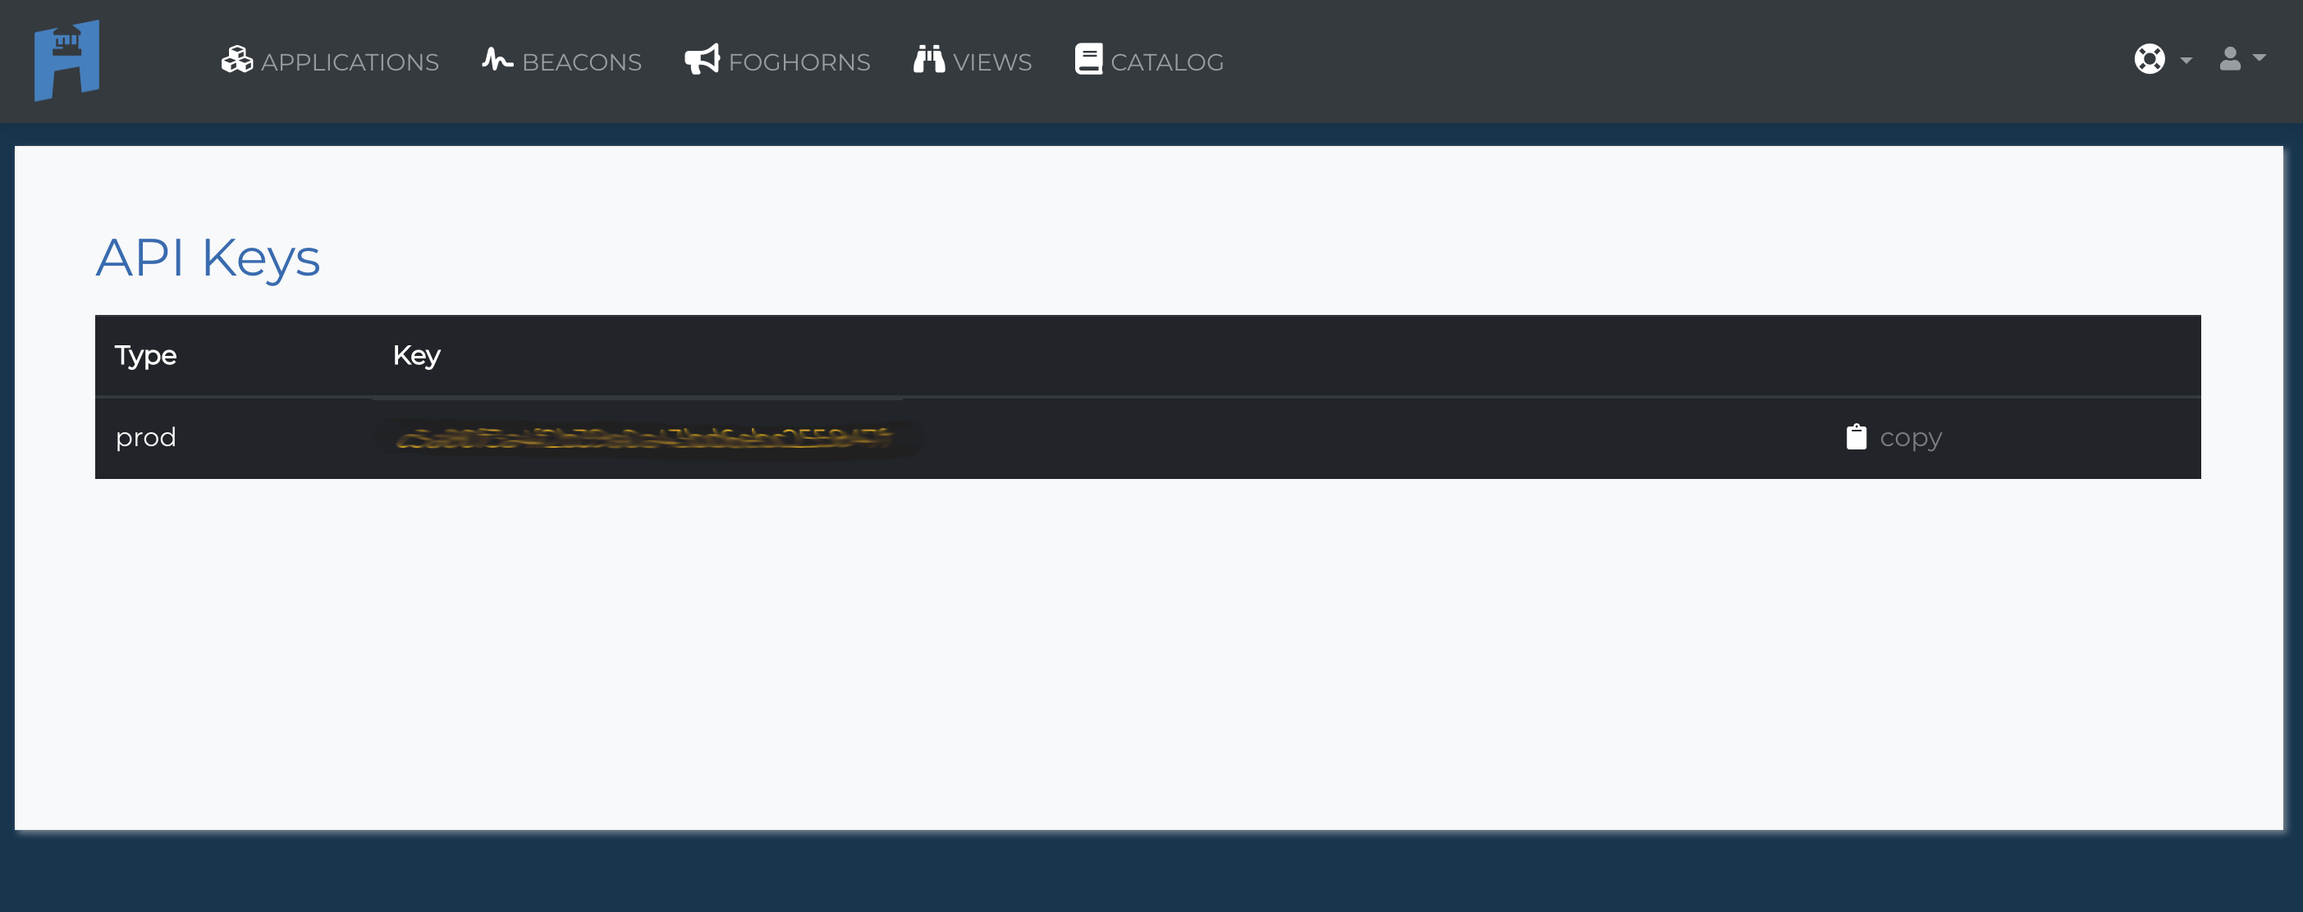
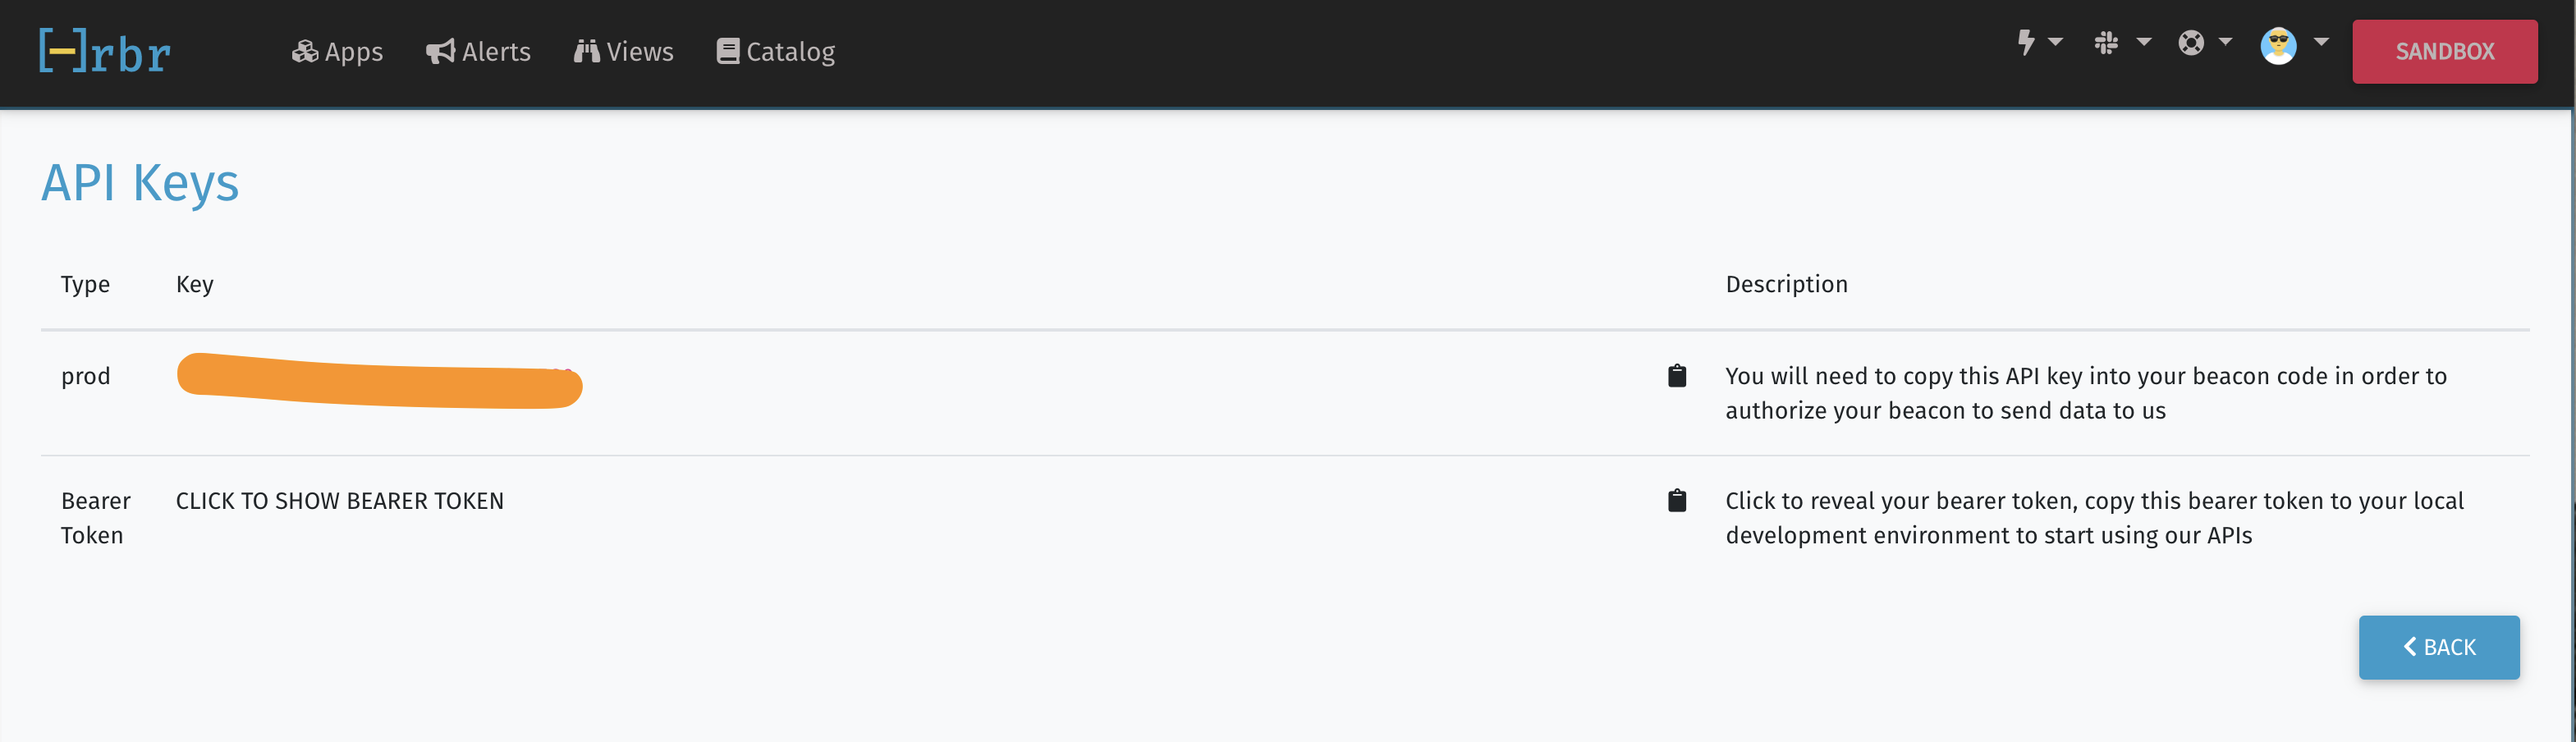
Changing docs to include sysinfo and to show new UI.

diff --git a/docs/quick-start-guide.md b/docs/quick-start-guide.md
@@ -40,72 +40,71 @@ Once you've added your application the first thing you have to do is add a Beaco
 !!! Reminder
     A Beacon collects data relevant to your application and sends that data to Hrbr.
 
-Pre-written Beacon templates can be found in the Hrbr Catalog.
-For this guide we will use a pre-written Beacon to check the system stats on our doc servers.
+You can write your own Beacons or your can use a pre-written Beacon template that can be found in the Hrbr Catalog. For this guide we will use a pre-written Beacon to check the system stats on our doc servers.
 
-!!! info
-    If you want to jump ahead and look at this yourself go to the ![catalog](img/quick-start/helloharbor-catalog.png) and check out the  `LinuxSysInfoBeacon`.  That's a beacon used for learning how to use Hrbr. You can directly go to this Beacon at [ https://github.com/HrbrIO/HelloHarborBeacon](https://github.com/HrbrIO/HelloHarborBeacon)
+First of all we are going to click the `+ Beacon` button.  In Beacon Version Id you will enter `harbor-linux-sysinfo-beacon:0.3.0`.  As we will see when go to install the Beacon on our server that is the default beaconVersionId for this beacon.
 
-![catalog](img/quick-start/helloharbor-catalog.png)
+Then give the Beacon a descriptive name and description and choose `SAVE`.
 
-![HelloHarborBeacon](img/quick-start/helloharbor-in-catalog.png)
+![add-beacon](img/quick-start/add-beacon.png)
 
 !!! info
     Follow the `READ.md` instructions on installing the Hrbr System Information Beacon For Linux.
 
-### Registering the Beacon
+### Install the Beacon
 
-You must register a Beacon before Hrbr will accept messages from it.
-!!! info
-    The `READ.md` for the HelloHarborBeacon tells us the default beaconVersionId is `io.hrbr.howdybeacon:1.0.0`
+#### Get the Beacon from the Catalog
 
-Select the Apps menu and then. and select our application `io.hrbr.helloapp:1.0.0`.
-
-![application-screen](img/quick-start/helloharbor-application-screen.png)
-
-Click on the Beacons section below the app.
-
-![ourglasstv-app-page](img/quick-start/helloharbor-app-page.png)
-
-
-!!! info
-    The `READ.md` for the LinuxSysInfoBeacon tells us the default beaconVersionId is `io.hrbr.howdybeacon:1.0.0`
-
-Give the Beacon Version ID `io.hrbr.howdybeacon:1.0.0`.
+Now we need to install the beacon on our server to start sending data.
 
 !!! Warning
-    You must make sure the Beacon Version ID matches the beaconVersionID in your Beacon.  Otherwise Hrbr will not accept the Beacon.
+    You need to install a beacon on your server or in your application before you can create Foghorns (alerts) or Views.  The HRBR cloud needs to be recieving data in order to see the fields that you sending through.
 
-Finally we need to configure our Beacon to send messages to to our API Key and to our Application `io.hrbr.helloapp:1.0.0`.  To find your API Key click on your user avatar in the upper right hand corner and select API Keys.
+While you can always write your own beacons HRBR has a number of opensource beacons for you to use and modify as you choose.  For the tutorial we are going to use the LinuxSysInfoBeacon from the HRBR Catalog.
+If you want to jump ahead and look at this yourself go to the  and check out the  `LinuxSysInfoBeacon`.  That's for gathering systems stats from your app servers.  You can directly go to this Beacon at [https://github.com/HrbrIO/LinuxSysInfoBeacon](https://github.com/HrbrIO/LinuxSysInfoBeacon)
+
+![catalog](img/quick-start/sysinfo-in-catalog.png)
+
+We can selext the `Linux System Information Monitor Beacon` for more information.
+
+![sysinfo-catalog-entry](img/quick-start/sysinfo-catalog-entry.png)
+
+!!! info
+    Install the beacom in accordance to the `READ.md` in GitHub.
+
+For any beacon to be able to send data to your account it needs to know which organization which applicatation being observed to send the data to.  So we are going to need two pieces of data.  Our API_Key and our appVersionId.
+
+!!! Warning
+    Double-check the beaconVersionId is `harbor-linux-sysinfo-beacon:0.3.0` in case it's been updated.  You must make sure the Beacon Version ID matches the beaconVersionID in your Beacon.  Otherwise Hrbr will not accept the Beacon.
+
+
+#### Configure the Beacon on your system
+
+Your find your API key on the website by clicking on the icon with your avatar (far right of nav bar) then selecting API Keys.
 
 ![api-keys](img/quick-start/api-keys.png)
 
-For this Beacon there is a `index.js` file we edit with our information.  Edit with your favorite text editor to put in your API key and the `io.hrbr.helloapp:1.0.0`.
+
+If you've forgotten your appVersionId just hit Apps and you can see it's `io.hrbr.docs:1.0.0`.
+
+![apps-page](img/quick-start/apps-page.png)
+
+For this Beacon there is a `options.json` file we edit with our information.  Edit with your favorite text editor to put in your API key and the `io.hrbr.helloapp:1.0.0`.
 
 ``` javascript
 // You find your API key on the website by clicking on the icon with your avatar (far right of nav bar) then
 // selecting API Keys. Enter it here.
-const API_KEY = 'GET_YOUR_API-KEY_FROM_WEBSITE';
+"apikey": "YOUR_API_KEY_HERE"
 
 // Now you need to have a valid appVersionId. To get one, create an app in your account. appVersionId's use a naming
 // convention similar to a lot of bundle/docker ids which is a combination of RDNS and semantic versioning. Example:
 // io.hrbr.mycoolapp:1.0.0. Feel free to use the appVersionId shown below for this tutorial.
 
-const APP_VERSION_ID = 'io.hrbr.helloapp:1.0.0';
+"appVersionId": "io.hrbr.docs:1.0.0",
 
-// You also need to have a beacon registered to your app in order for Hrbr to accept the post. Beacons have a
-// beaconVersionId which follows the same convention as the appVersionId, above. Let's use: io.hrbr.howdybeacon:1.0.0.
+// I'm also going to change the sample rate to once every 5000 milliseconds so I can see my data more quickly
 
-// You will need to add this beacon to your app by going to the app details page on the website, then clicking + BEACON.
-// The beaconVersionId must match EXACTLY with what is below.
-
-const BEACON_VERSION_ID = 'io.hrbr.howdybeacon:1.0.0';
-
-// Each Beacon can have any number of beaconMessageTypes (BMT). Some beacons send only one type. That's the case with this
-// example. A beacon message type is simply a string to help us identify different streams of monitoring data. Beacon Message
-// Types *do not* need to be pre-registered in order for Hrbr to accept the message.
-
-const BEACON_MESSAGE_TYPE = 'HELLO_HARBOR';
+"sampleInterval": 5000
 
 ```
 
@@ -113,15 +112,19 @@ The Hello Harbor Beacon runs a standalone app so we'll need to start it to colle
 
 And now you are are sending your first messages to Hrbr.  You can double check what's coming into Hrbr by selecting your app.
 
-![application-string](img/quick-start/helloharbor-application-screen.png)
+![application-string](img/quick-start/select-harbor-docs-app-page.png)
 
-The you can select go to developor options.  After waiting a few seconds you can see the Beacon messages.
+The you can select go to developor view.  It's in the bottom right of the application page.
 
-![developer-view](img/quick-start/helloharbor-developer-view.png)
+![developer-view](img/quick-start/harbordocs-developer-view.png)
 
-### Test your Beacon
+After waiting a few seconds you can see the Beacon messages.
 
-If you want to try a simple curl code to make sure you system is receiving beacons you can go to edit the Beacon and the will be a `General Curl Sample` button.
+![developerconsole](img/quick-start/harbordocs-developer-console.png)
+
+<!-- ### Test your Beacon
+
+If you want to try a simple curl code to make sure you system is receiving beacons you can go to edit the Beacon and the will be a `Generate Curl Sample` button.
 
 ![Generate Curl](img/quick-start/helloharbor-curl-beacon.png)
 
@@ -137,27 +140,19 @@ curl -i -X POST \
   https://Hrbr-stream.hrbr.io/beacon
 ```
 
-You can find much more detailed instructions in playing around with the Beacon Messages in our [API Docs](api.md).
+You can find much more detailed instructions in playing around with the Beacon Messages in our [API Docs](api.md). -->
 
 ## Add a View
 
-Before we can add a view or Foghorn we need understand what your Beacon is collecting and sending through  Beacon messages should be sent in standard JSON format.  By clicking on one of our Beacons messages we can see what our HelloHarbor Beacon is sending through.  Here is sample message from our HelloHarbor Beacon.  As you can see there are quite a few fields to choose from.  We are going to want to know CPU utilization so we will look at currentLoad and pick the field avgload.
-
-``` json
-"data": {
-    "message": "Hello #11 from Harbor",
-    "random": 0.27131707201113486
-  },
-```
 To add a view we need to return to our application screen.
 
-![ourglass-app-page-with-beacon](img/quick-start/helloharbor-with-beacon.png)
+![ourglass-app-page-with-beacon](img/quick-start/harbor-docs-app-page-with-beacon.png)
 
-Click to add a new view.  We'll name our `Hello Harbor Data`.
+Click to add a new view.  We'll name our `Harbor Docs Server Info`. Then hit save.
 
-![edit-view](img/quick-start/helloharbor-add-view.png)
+![edit-view](img/quick-start/harbordocs-add-view.png)
 
-After selecting the check mark we can choose the add chart button.  We are going to add a simple line chart. Name the chart as you see fit.  Then add `HELLO_HARBOR` into the Beacon Message Type.  We know HELLO_HARBOR is the Beacon Message Type for this by reading the config in the `index.js`
+After saving we can choose the add chart button.  We are going to add a simple line chart. Name the chart as you see fit.  Then add `HELLO_HARBOR` into the Beacon Message Type.  We know HELLO_HARBOR is the Beacon Message Type for this by reading the config in the `index.js`
 
 !!! Info
     BeaconMessageType is a way to tag your beacons.  It allows you to send different types of data with a single beacon or allows you to look at similar data from multiple beacons.  While not required to work with Hrbr it is necessary if you want to use our internal View and Foghorn tools.
@@ -174,11 +169,15 @@ To View the chart select View from the main menu and choose Display from Hello H
 
 ## Create a Foghorn
 Now let's create a Foghorn to alert us if there is an issue.  Setting up a Foghorn is very similar to setting up a view so let's set one up using the same 'random' data we did for the view.
-Return to the application management screen by clicking on our 'io.hrbr.helloapp:1.0.0' app.
+Return to the application management screen by clicking on our `io.hrbr.harbordocs:1.0.0` app.
 
-![ourglass-app-with-view](img/quick-start/helloharbor-with-view.png)
+![ourglass-app-with-view](img/quick-start/harbor-docs-app-page-with-view.png)
 
 Select to add a new Foghorn.
+
+Let's call this our High CPU foghorn.  Select `Linux Sys Info Beacon for Docs` from the Beacon Version ID to Monitor drop down list.
+
+![edit-foghorn](img/quick-start/harbordocs-edit-foghorn.png)
 
 Once in the Edit Foghorn page. You'll want to click on the <button style="background:#3CB29A;color:white;border:0">TRIGGERS</button>.  Then click the <button style="background:white;border-color:blue;border-style: solid;color:blue">+ Add Trigger Entry</button>.
 
